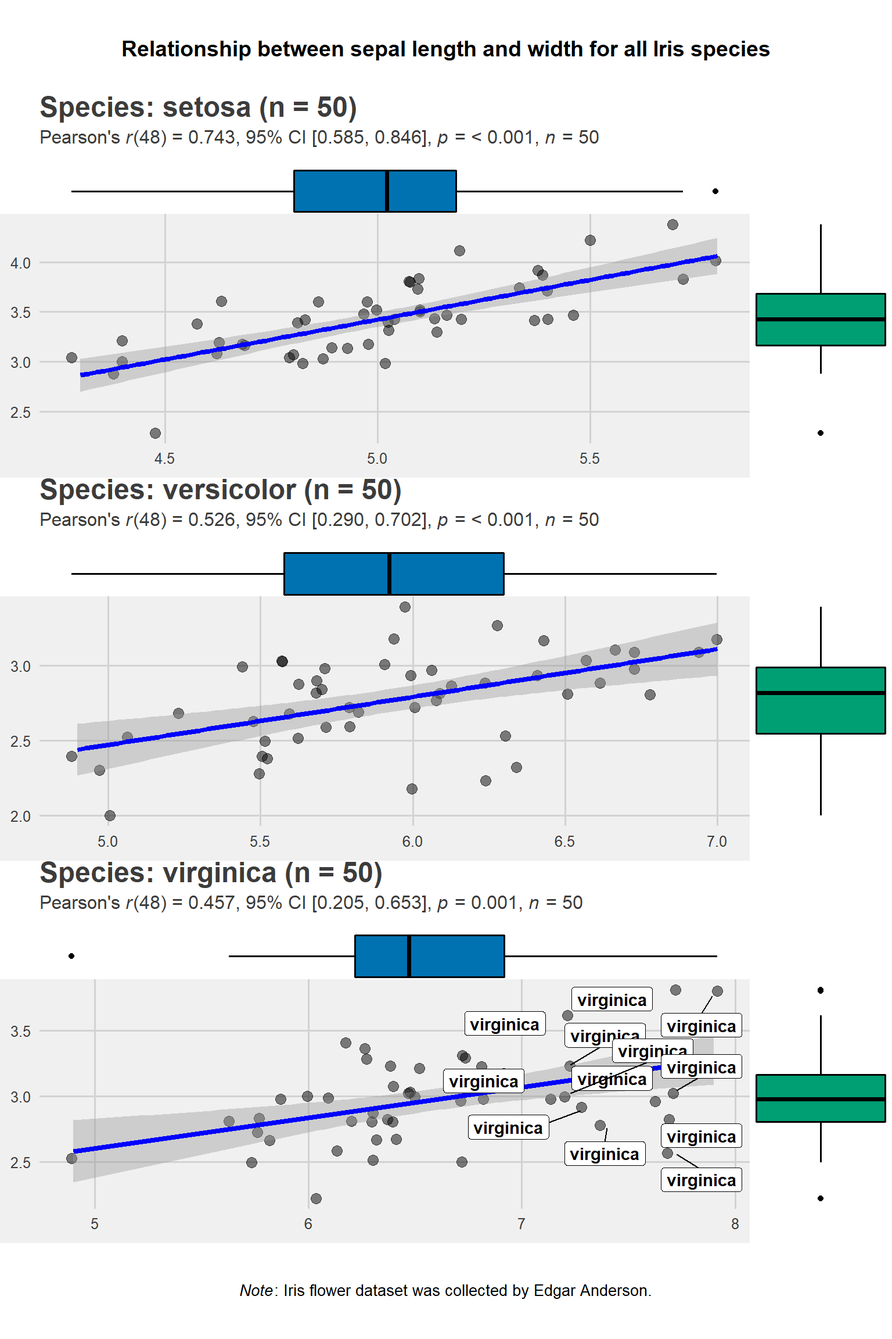
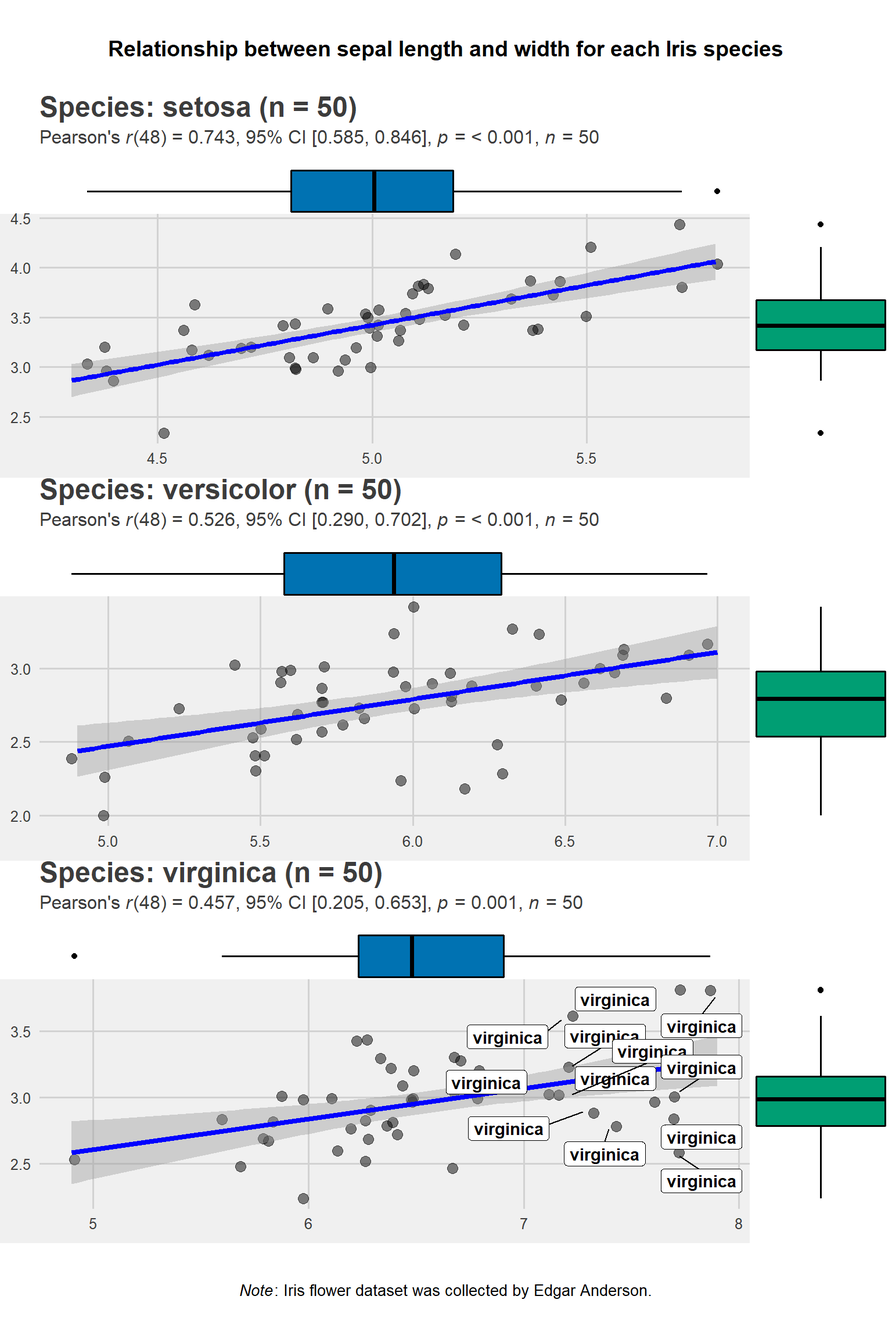
website rebuilt with modified vignette

diff --git a/docs/articles/combine_plots.html b/docs/articles/combine_plots.html
@@ -119,7 +119,7 @@
       <h1>combine_plots</h1>
                         <h4 class="author">Indrajeet Patil</h4>
             
-            <h4 class="date">2018-09-20</h4>
+            <h4 class="date">2018-09-23</h4>
       
       <small class="dont-index">Source: <a href="https://github.com/IndrajeetPatil/ggstatsplot/blob/master/vignettes/combine_plots.Rmd"><code>vignettes/combine_plots.Rmd</code></a></small>
       <div class="hidden name"><code>combine_plots.Rmd</code></div>
@@ -132,79 +132,82 @@
 <h1 class="hasAnchor">
 <a href="#combining-plots-with-combine_plots" class="anchor"></a>Combining plots with <code>combine_plots</code>
 </h1>
-<p><code>ggstatsplot</code> also contains a helper function <code>combine_plots</code> to combine multiple plots. This is a wrapper around <code><a href="http://www.rdocumentation.org/packages/cowplot/topics/plot_grid">cowplot::plot_grid()</a></code> and it helps you combine multiple plots and add combination of title, caption, and annotation texts with suitable default parameters. Let’s see some examples below.</p>
-<p><strong>Note before</strong>: The codes below illustrates the utility of <code>combine_plots</code> for combining multiple plots created with <code>ggstatsplot</code> functions. But, if you have just one grouping variable, it’s not even necessary to use <code>purrr</code> or <code>plyr</code> since the <code>grouped_</code> variants (<a href="https://indrajeetpatil.github.io/ggstatsplot/reference/index.html" class="uri">https://indrajeetpatil.github.io/ggstatsplot/reference/index.html</a>) of all functions will take care of this for you and rely on the <code>combine_plots</code> function behind the curtains.</p>
-<div id="combining-plots-examples-with-purrr" class="section level2">
+<p><code>ggstatsplot</code> contains a “helper” function named <code>combine_plots</code> to help you combine several plots into one plot or add a combination of title, caption, and annotation texts with suitable default parameters. It is a wrapper around <code><a href="http://www.rdocumentation.org/packages/cowplot/topics/plot_grid">cowplot::plot_grid()</a></code>. Some examples below.</p>
+<p><strong>Note Before</strong>: If you have just one grouping variable and you’d like a plot for each <code>factor</code> of this variable the <code>grouped_</code> variants (<a href="https://indrajeetpatil.github.io/ggstatsplot/reference/index.html" class="uri">https://indrajeetpatil.github.io/ggstatsplot/reference/index.html</a>) of all <code>ggstatsplot</code> functions will allow you do to this. They specifically use the <code>combine_plots</code> function under the covers.</p>
+<div id="combining-multiple-plots-example-1-using-purrr" class="section level2">
 <h2 class="hasAnchor">
-<a href="#combining-plots-examples-with-purrr" class="anchor"></a>Combining plots: Examples with <code>purrr</code>
+<a href="#combining-multiple-plots-example-1-using-purrr" class="anchor"></a>Combining multiple plots: Example #1 using <code>purrr</code>
 </h2>
-<p>The full power of <code>ggstatsplot</code> can be leveraged with a functional programming package like <a href="http://purrr.tidyverse.org/"><code>purrr</code></a> that replaces many <code>for</code> loops with code that is both more succinct and easier to read and, therefore, <code>purrr</code> should be preferrred.</p>
-<p>An example is provided below.</p>
+<p>The full power of <code>ggstatsplot</code> can be leveraged with a functional programming package like <a href="http://purrr.tidyverse.org/"><code>purrr</code></a> which can replace many <code>for</code> loops, is more succinct, and easier to read. Consider <code>purrr</code> as your first choice for combining multiple plots.</p>
+<p>An example using the <code>iris</code> dataset is provided below. Imagine that we want to separately plot the linear relationship between sepal length and sepal width for each of the three species but combine them into one consistent plot with common labeling and as one plot. Rather than call <code>ggscatterstats</code> three times and gluing the results or using <code>cowplot</code> directly, we’ll create a <code>tibble</code> called <code>plots</code> using <code><a href="http://www.rdocumentation.org/packages/purrr/topics/map">purrr::map</a></code> then feed that to <code>combine_plots</code> to get our combined plot.</p>
 <div class="sourceCode" id="cb1"><pre class="sourceCode r"><code class="sourceCode r"><a class="sourceLine" id="cb1-1" data-line-number="1"><span class="kw">library</span>(glue)</a>
 <a class="sourceLine" id="cb1-2" data-line-number="2"><span class="kw">library</span>(dplyr)</a>
 <a class="sourceLine" id="cb1-3" data-line-number="3"><span class="kw">library</span>(ggplot2)</a>
 <a class="sourceLine" id="cb1-4" data-line-number="4"></a>
-<a class="sourceLine" id="cb1-5" data-line-number="5"><span class="co">### creating a list column with `ggstatsplot` plots</span></a>
-<a class="sourceLine" id="cb1-6" data-line-number="6">plots &lt;-<span class="st"> </span>datasets<span class="op">::</span>iris <span class="op">%&gt;%</span></a>
-<a class="sourceLine" id="cb1-7" data-line-number="7"><span class="st">  </span>dplyr<span class="op">::</span><span class="kw"><a href="http://dplyr.tidyverse.org/reference/mutate.html">mutate</a></span>(<span class="dt">.data =</span> ., <span class="dt">Species2 =</span> Species) <span class="op">%&gt;%</span><span class="st"> </span><span class="co"># just creates a copy of this variable</span></a>
-<a class="sourceLine" id="cb1-8" data-line-number="8"><span class="st">  </span>dplyr<span class="op">::</span><span class="kw"><a href="http://dplyr.tidyverse.org/reference/group_by.html">group_by</a></span>(<span class="dt">.data =</span> ., Species) <span class="op">%&gt;%</span><span class="st">                </span></a>
-<a class="sourceLine" id="cb1-9" data-line-number="9"><span class="st">  </span>tidyr<span class="op">::</span><span class="kw"><a href="http://www.rdocumentation.org/packages/tidyr/topics/nest">nest</a></span>(<span class="dt">data =</span> .) <span class="op">%&gt;%</span><span class="st">                        </span><span class="co"># creates a nested dataframe with list column called `data`</span></a>
-<a class="sourceLine" id="cb1-10" data-line-number="10"><span class="st">  </span>dplyr<span class="op">::</span><span class="kw"><a href="http://dplyr.tidyverse.org/reference/mutate.html">mutate</a></span>(                                   <span class="co"># creating a new list column of ggstatsplot outputs</span></a>
-<a class="sourceLine" id="cb1-11" data-line-number="11">    <span class="dt">.data =</span> .,</a>
-<a class="sourceLine" id="cb1-12" data-line-number="12">    <span class="dt">plot =</span> data <span class="op">%&gt;%</span></a>
-<a class="sourceLine" id="cb1-13" data-line-number="13"><span class="st">      </span>purrr<span class="op">::</span><span class="kw"><a href="http://www.rdocumentation.org/packages/purrr/topics/map">map</a></span>(</a>
-<a class="sourceLine" id="cb1-14" data-line-number="14">        <span class="dt">.x =</span> .,</a>
-<a class="sourceLine" id="cb1-15" data-line-number="15">        <span class="dt">.f =</span> <span class="op">~</span><span class="st"> </span>ggstatsplot<span class="op">::</span><span class="kw"><a href="https://indrajeetpatil.github.io/ggstatsplot//reference/ggscatterstats.html">ggscatterstats</a></span>(</a>
-<a class="sourceLine" id="cb1-16" data-line-number="16">          <span class="dt">data =</span> .,</a>
-<a class="sourceLine" id="cb1-17" data-line-number="17">          <span class="dt">x =</span> Sepal.Length,</a>
-<a class="sourceLine" id="cb1-18" data-line-number="18">          <span class="dt">y =</span> Sepal.Width,</a>
-<a class="sourceLine" id="cb1-19" data-line-number="19">          <span class="dt">label.var =</span> <span class="st">"Species2"</span>,</a>
-<a class="sourceLine" id="cb1-20" data-line-number="20">          <span class="dt">label.expression =</span> <span class="st">"Sepal.Length &gt; 7"</span>,</a>
-<a class="sourceLine" id="cb1-21" data-line-number="21">          <span class="dt">xfill =</span> <span class="st">"#0072B2"</span>,</a>
-<a class="sourceLine" id="cb1-22" data-line-number="22">          <span class="dt">yfill =</span> <span class="st">"#009E73"</span>,</a>
-<a class="sourceLine" id="cb1-23" data-line-number="23">          <span class="dt">ggtheme =</span> ggthemes<span class="op">::</span><span class="kw"><a href="http://www.rdocumentation.org/packages/ggthemes/topics/theme_fivethirtyeight">theme_fivethirtyeight</a></span>(),</a>
-<a class="sourceLine" id="cb1-24" data-line-number="24">          <span class="dt">ggstatsplot.layer =</span> <span class="ot">FALSE</span>,</a>
-<a class="sourceLine" id="cb1-25" data-line-number="25">          <span class="dt">messages =</span> <span class="ot">FALSE</span>,                        <span class="co"># turns off all the warnings, notes, and reference messages   </span></a>
-<a class="sourceLine" id="cb1-26" data-line-number="26">          <span class="dt">marginal.type =</span> <span class="st">"boxplot"</span>,</a>
-<a class="sourceLine" id="cb1-27" data-line-number="27">          <span class="dt">title =</span></a>
-<a class="sourceLine" id="cb1-28" data-line-number="28">            glue<span class="op">::</span><span class="kw"><a href="http://www.rdocumentation.org/packages/glue/topics/glue">glue</a></span>(<span class="st">"Species: {.$Species2} (n = {length(.$Sepal.Length)})"</span>)</a>
-<a class="sourceLine" id="cb1-29" data-line-number="29">        )</a>
-<a class="sourceLine" id="cb1-30" data-line-number="30">      )</a>
-<a class="sourceLine" id="cb1-31" data-line-number="31">  )</a>
-<a class="sourceLine" id="cb1-32" data-line-number="32"></a>
-<a class="sourceLine" id="cb1-33" data-line-number="33"><span class="co">### display the new object (notice that the class of the `plot` list column is S3: gg)</span></a>
-<a class="sourceLine" id="cb1-34" data-line-number="34">plots</a>
-<a class="sourceLine" id="cb1-35" data-line-number="35"><span class="co">#&gt; # A tibble: 3 x 3</span></a>
-<a class="sourceLine" id="cb1-36" data-line-number="36"><span class="co">#&gt;   Species    data              plot             </span></a>
-<a class="sourceLine" id="cb1-37" data-line-number="37"><span class="co">#&gt;   &lt;fct&gt;      &lt;list&gt;            &lt;list&gt;           </span></a>
-<a class="sourceLine" id="cb1-38" data-line-number="38"><span class="co">#&gt; 1 setosa     &lt;tibble [50 x 5]&gt; &lt;S3: ggExtraPlot&gt;</span></a>
-<a class="sourceLine" id="cb1-39" data-line-number="39"><span class="co">#&gt; 2 versicolor &lt;tibble [50 x 5]&gt; &lt;S3: ggExtraPlot&gt;</span></a>
-<a class="sourceLine" id="cb1-40" data-line-number="40"><span class="co">#&gt; 3 virginica  &lt;tibble [50 x 5]&gt; &lt;S3: ggExtraPlot&gt;</span></a>
-<a class="sourceLine" id="cb1-41" data-line-number="41"></a>
-<a class="sourceLine" id="cb1-42" data-line-number="42"><span class="co">### creating a grid with cowplot</span></a>
-<a class="sourceLine" id="cb1-43" data-line-number="43">ggstatsplot<span class="op">::</span><span class="kw"><a href="https://indrajeetpatil.github.io/ggstatsplot//reference/combine_plots.html">combine_plots</a></span>(</a>
-<a class="sourceLine" id="cb1-44" data-line-number="44">  <span class="dt">plotlist =</span> plots<span class="op">$</span>plot,                           <span class="co"># list column containing all ggstatsplot objects</span></a>
-<a class="sourceLine" id="cb1-45" data-line-number="45">  <span class="dt">nrow =</span> <span class="dv">3</span>,</a>
-<a class="sourceLine" id="cb1-46" data-line-number="46">  <span class="dt">ncol =</span> <span class="dv">1</span>,</a>
-<a class="sourceLine" id="cb1-47" data-line-number="47">  <span class="dt">title.text =</span> <span class="st">"Relationship between sepal length and width for all Iris species"</span>,</a>
-<a class="sourceLine" id="cb1-48" data-line-number="48">  <span class="dt">title.size =</span> <span class="dv">14</span>,</a>
-<a class="sourceLine" id="cb1-49" data-line-number="49">  <span class="dt">caption.text =</span> <span class="kw">expression</span>(</a>
-<a class="sourceLine" id="cb1-50" data-line-number="50">    <span class="kw">paste</span>(</a>
-<a class="sourceLine" id="cb1-51" data-line-number="51">      <span class="kw">italic</span>(<span class="st">"Note"</span>),</a>
-<a class="sourceLine" id="cb1-52" data-line-number="52">      <span class="st">": Iris flower dataset was collected by Edgar Anderson."</span>,</a>
-<a class="sourceLine" id="cb1-53" data-line-number="53">      <span class="dt">sep =</span> <span class="st">""</span></a>
-<a class="sourceLine" id="cb1-54" data-line-number="54">    ),</a>
-<a class="sourceLine" id="cb1-55" data-line-number="55">    <span class="dt">caption.size =</span> <span class="dv">12</span></a>
-<a class="sourceLine" id="cb1-56" data-line-number="56">  )</a>
-<a class="sourceLine" id="cb1-57" data-line-number="57">)</a></code></pre></div>
+<a class="sourceLine" id="cb1-5" data-line-number="5"><span class="co"># for reproducibility</span></a>
+<a class="sourceLine" id="cb1-6" data-line-number="6"><span class="kw">set.seed</span>(<span class="dv">123</span>)</a>
+<a class="sourceLine" id="cb1-7" data-line-number="7"></a>
+<a class="sourceLine" id="cb1-8" data-line-number="8"><span class="co">### creating a list column with `ggstatsplot` plots</span></a>
+<a class="sourceLine" id="cb1-9" data-line-number="9">plots &lt;-<span class="st"> </span>datasets<span class="op">::</span>iris <span class="op">%&gt;%</span></a>
+<a class="sourceLine" id="cb1-10" data-line-number="10"><span class="st">  </span>dplyr<span class="op">::</span><span class="kw"><a href="http://dplyr.tidyverse.org/reference/mutate.html">mutate</a></span>(<span class="dt">.data =</span> ., <span class="dt">Species2 =</span> Species) <span class="op">%&gt;%</span><span class="st"> </span><span class="co"># just creates a copy of this variable</span></a>
+<a class="sourceLine" id="cb1-11" data-line-number="11"><span class="st">  </span>dplyr<span class="op">::</span><span class="kw"><a href="http://dplyr.tidyverse.org/reference/group_by.html">group_by</a></span>(<span class="dt">.data =</span> ., Species) <span class="op">%&gt;%</span><span class="st">                </span></a>
+<a class="sourceLine" id="cb1-12" data-line-number="12"><span class="st">  </span>tidyr<span class="op">::</span><span class="kw"><a href="http://www.rdocumentation.org/packages/tidyr/topics/nest">nest</a></span>(<span class="dt">data =</span> .) <span class="op">%&gt;%</span><span class="st">                        </span><span class="co"># creates a nested dataframe with list column called `data`</span></a>
+<a class="sourceLine" id="cb1-13" data-line-number="13"><span class="st">  </span>dplyr<span class="op">::</span><span class="kw"><a href="http://dplyr.tidyverse.org/reference/mutate.html">mutate</a></span>(                                   <span class="co"># creating a new list column of ggstatsplot outputs</span></a>
+<a class="sourceLine" id="cb1-14" data-line-number="14">    <span class="dt">.data =</span> .,</a>
+<a class="sourceLine" id="cb1-15" data-line-number="15">    <span class="dt">plot =</span> data <span class="op">%&gt;%</span></a>
+<a class="sourceLine" id="cb1-16" data-line-number="16"><span class="st">      </span>purrr<span class="op">::</span><span class="kw"><a href="http://www.rdocumentation.org/packages/purrr/topics/map">map</a></span>(</a>
+<a class="sourceLine" id="cb1-17" data-line-number="17">        <span class="dt">.x =</span> .,</a>
+<a class="sourceLine" id="cb1-18" data-line-number="18">        <span class="dt">.f =</span> <span class="op">~</span><span class="st"> </span>ggstatsplot<span class="op">::</span><span class="kw"><a href="https://indrajeetpatil.github.io/ggstatsplot//reference/ggscatterstats.html">ggscatterstats</a></span>(</a>
+<a class="sourceLine" id="cb1-19" data-line-number="19">          <span class="dt">data =</span> .,</a>
+<a class="sourceLine" id="cb1-20" data-line-number="20">          <span class="dt">x =</span> Sepal.Length,</a>
+<a class="sourceLine" id="cb1-21" data-line-number="21">          <span class="dt">y =</span> Sepal.Width,</a>
+<a class="sourceLine" id="cb1-22" data-line-number="22">          <span class="dt">label.var =</span> <span class="st">"Species2"</span>,</a>
+<a class="sourceLine" id="cb1-23" data-line-number="23">          <span class="dt">label.expression =</span> <span class="st">"Sepal.Length &gt; 7"</span>,</a>
+<a class="sourceLine" id="cb1-24" data-line-number="24">          <span class="dt">xfill =</span> <span class="st">"#0072B2"</span>,</a>
+<a class="sourceLine" id="cb1-25" data-line-number="25">          <span class="dt">yfill =</span> <span class="st">"#009E73"</span>,</a>
+<a class="sourceLine" id="cb1-26" data-line-number="26">          <span class="dt">ggtheme =</span> ggthemes<span class="op">::</span><span class="kw"><a href="http://www.rdocumentation.org/packages/ggthemes/topics/theme_fivethirtyeight">theme_fivethirtyeight</a></span>(),</a>
+<a class="sourceLine" id="cb1-27" data-line-number="27">          <span class="dt">ggstatsplot.layer =</span> <span class="ot">FALSE</span>,</a>
+<a class="sourceLine" id="cb1-28" data-line-number="28">          <span class="dt">messages =</span> <span class="ot">FALSE</span>,                        <span class="co"># turns off all the warnings, notes, and reference messages   </span></a>
+<a class="sourceLine" id="cb1-29" data-line-number="29">          <span class="dt">marginal.type =</span> <span class="st">"boxplot"</span>,</a>
+<a class="sourceLine" id="cb1-30" data-line-number="30">          <span class="dt">title =</span></a>
+<a class="sourceLine" id="cb1-31" data-line-number="31">            glue<span class="op">::</span><span class="kw"><a href="http://www.rdocumentation.org/packages/glue/topics/glue">glue</a></span>(<span class="st">"Species: {.$Species2} (n = {length(.$Sepal.Length)})"</span>)</a>
+<a class="sourceLine" id="cb1-32" data-line-number="32">        )</a>
+<a class="sourceLine" id="cb1-33" data-line-number="33">      )</a>
+<a class="sourceLine" id="cb1-34" data-line-number="34">  )</a>
+<a class="sourceLine" id="cb1-35" data-line-number="35"></a>
+<a class="sourceLine" id="cb1-36" data-line-number="36"><span class="co">### display the new object (notice that the class of the `plot` list column is S3: gg)</span></a>
+<a class="sourceLine" id="cb1-37" data-line-number="37">plots</a>
+<a class="sourceLine" id="cb1-38" data-line-number="38"><span class="co">#&gt; # A tibble: 3 x 3</span></a>
+<a class="sourceLine" id="cb1-39" data-line-number="39"><span class="co">#&gt;   Species    data              plot             </span></a>
+<a class="sourceLine" id="cb1-40" data-line-number="40"><span class="co">#&gt;   &lt;fct&gt;      &lt;list&gt;            &lt;list&gt;           </span></a>
+<a class="sourceLine" id="cb1-41" data-line-number="41"><span class="co">#&gt; 1 setosa     &lt;tibble [50 x 5]&gt; &lt;S3: ggExtraPlot&gt;</span></a>
+<a class="sourceLine" id="cb1-42" data-line-number="42"><span class="co">#&gt; 2 versicolor &lt;tibble [50 x 5]&gt; &lt;S3: ggExtraPlot&gt;</span></a>
+<a class="sourceLine" id="cb1-43" data-line-number="43"><span class="co">#&gt; 3 virginica  &lt;tibble [50 x 5]&gt; &lt;S3: ggExtraPlot&gt;</span></a>
+<a class="sourceLine" id="cb1-44" data-line-number="44"></a>
+<a class="sourceLine" id="cb1-45" data-line-number="45"><span class="co">### creating a grid with cowplot</span></a>
+<a class="sourceLine" id="cb1-46" data-line-number="46">ggstatsplot<span class="op">::</span><span class="kw"><a href="https://indrajeetpatil.github.io/ggstatsplot//reference/combine_plots.html">combine_plots</a></span>(</a>
+<a class="sourceLine" id="cb1-47" data-line-number="47">  <span class="dt">plotlist =</span> plots<span class="op">$</span>plot,                           <span class="co"># list column containing all ggstatsplot objects</span></a>
+<a class="sourceLine" id="cb1-48" data-line-number="48">  <span class="dt">nrow =</span> <span class="dv">3</span>,</a>
+<a class="sourceLine" id="cb1-49" data-line-number="49">  <span class="dt">ncol =</span> <span class="dv">1</span>,</a>
+<a class="sourceLine" id="cb1-50" data-line-number="50">  <span class="dt">title.text =</span> <span class="st">"Relationship between sepal length and width for each Iris species"</span>,</a>
+<a class="sourceLine" id="cb1-51" data-line-number="51">  <span class="dt">title.size =</span> <span class="dv">14</span>,</a>
+<a class="sourceLine" id="cb1-52" data-line-number="52">  <span class="dt">caption.text =</span> <span class="kw">expression</span>(</a>
+<a class="sourceLine" id="cb1-53" data-line-number="53">    <span class="kw">paste</span>(</a>
+<a class="sourceLine" id="cb1-54" data-line-number="54">      <span class="kw">italic</span>(<span class="st">"Note"</span>),</a>
+<a class="sourceLine" id="cb1-55" data-line-number="55">      <span class="st">": Iris flower dataset was collected by Edgar Anderson."</span>,</a>
+<a class="sourceLine" id="cb1-56" data-line-number="56">      <span class="dt">sep =</span> <span class="st">""</span></a>
+<a class="sourceLine" id="cb1-57" data-line-number="57">    ),</a>
+<a class="sourceLine" id="cb1-58" data-line-number="58">    <span class="dt">caption.size =</span> <span class="dv">12</span></a>
+<a class="sourceLine" id="cb1-59" data-line-number="59">  )</a>
+<a class="sourceLine" id="cb1-60" data-line-number="60">)</a></code></pre></div>
 <p><img src="combine_plots_files/figure-html/ggscatterstats_purrr-1.png" width="768"></p>
 </div>
-<div id="combining-plots-example-with-plyr" class="section level2">
+<div id="combining-multiple-plots-example-2-with-plyr" class="section level2">
 <h2 class="hasAnchor">
-<a href="#combining-plots-example-with-plyr" class="anchor"></a>Combining plots: Example with <code>plyr</code>
+<a href="#combining-multiple-plots-example-2-with-plyr" class="anchor"></a>Combining multiple plots: Example #2 with <code>plyr</code>
 </h2>
-<p>Another popular package for handling big datasets is <code>plyr</code>, where we can repeatedly apply a common function on smaller pieces and then combine the results.</p>
-<p>Let’s see another example on how to use <code>plyr</code> to conveniently to repeat the same operation and then use <code>combine_plots</code>. Here we will investigate how Gross Domestic Product (per capita) of a country is related to the life expectancy of her citizens in 2007. We will also see which countries still have very low life expectancy across different continents.</p>
+<p>Another popular package for handling big datasets is <code>plyr</code>, which allows us to repeatedly apply a common function on smaller pieces and then combine the results into a larger whole.</p>
+<p>In this example we’ll start with the <code>gapminder</code> dataset. We’re interested in the linear relationship between Gross Domestic Product (per capita) and life expectancy in the year 2007, for all the continents except Oceania. We’ll use <code>dplyr</code> to filter to the right rows then use <code>plyr</code> to repeat the <code>ggscatterstats</code> function across each of the 4 continents remaining. The result is of that is a list of plots called <code>plots</code>. We then feed <code>plots</code> to the <code>combine_plots</code> function to merge them into one plot. We will call attention to the countries which have very low life expectancy (&lt; 45 years) by labeling those countries when they occur.</p>
 <div class="sourceCode" id="cb2"><pre class="sourceCode r"><code class="sourceCode r"><a class="sourceLine" id="cb2-1" data-line-number="1"><span class="kw">library</span>(plyr)</a>
 <a class="sourceLine" id="cb2-2" data-line-number="2"><span class="kw">library</span>(gapminder)</a>
 <a class="sourceLine" id="cb2-3" data-line-number="3"></a>
@@ -248,10 +251,11 @@
 <a class="sourceLine" id="cb2-41" data-line-number="41">                           <span class="dt">ncol =</span> <span class="dv">2</span>)</a></code></pre></div>
 <p><img src="combine_plots_files/figure-html/ggscatterstats_plyr-1.png" width="1152"></p>
 </div>
-<div id="combining-plot-with-additional-text" class="section level2">
+<div id="adding-additional-textual-information-example-3" class="section level2">
 <h2 class="hasAnchor">
-<a href="#combining-plot-with-additional-text" class="anchor"></a>Combining plot with additional text</h2>
-<p>This function can also be useful adding some additional text information that can’t be contained in either title, subtitle, or caption. Here is an example: We want to run a polynomial regression and want to annotate the formula.</p>
+<a href="#adding-additional-textual-information-example-3" class="anchor"></a>Adding additional textual information: Example #3</h2>
+<p>The <code>combine_plots</code> function can also be useful for adding additional textual information that can not be added by making a single call to a <code>ggstatsplot</code> function via the title, subtitle, or caption options. For this example let’s assume we want to assess the relationship between a movie’s rating and its budget from the <strong>Internet Movie Database</strong> using polynomial regression.</p>
+<p><code>ggcoefstats</code> will do most of the work, including the title, subtitle, and caption. But we want to add at the bottom an annotation to show the formula we are using for our regression. <code>combine_plots</code> allows us to add <code>sub.text =</code> to accomplish that task as shown in the resulting plot.</p>
 <div class="sourceCode" id="cb3"><pre class="sourceCode r"><code class="sourceCode r"><a class="sourceLine" id="cb3-1" data-line-number="1"><span class="kw">library</span>(ggstatsplot)</a>
 <a class="sourceLine" id="cb3-2" data-line-number="2"></a>
 <a class="sourceLine" id="cb3-3" data-line-number="3">ggstatsplot<span class="op">::</span><span class="kw"><a href="https://indrajeetpatil.github.io/ggstatsplot//reference/combine_plots.html">combine_plots</a></span>(</a>
@@ -303,8 +307,16 @@
 <h1 class="hasAnchor">
 <a href="#session-information" class="anchor"></a>Session Information</h1>
 <p>Summarizing session information for reproducibility.</p>
-<div class="sourceCode" id="cb4"><pre class="sourceCode r"><code class="sourceCode r"><a class="sourceLine" id="cb4-1" data-line-number="1"><span class="kw">options</span>(<span class="dt">width =</span> <span class="dv">200</span>)</a>
-<a class="sourceLine" id="cb4-2" data-line-number="2">devtools<span class="op">::</span><span class="kw"><a href="http://www.rdocumentation.org/packages/devtools/topics/session_info">session_info</a></span>()</a></code></pre></div>
+<pre><code>#&gt;  setting  value                       
+#&gt;  version  R version 3.5.1 (2018-07-02)
+#&gt;  os       Windows 10 x64              
+#&gt;  system   x86_64, mingw32             
+#&gt;  ui       RTerm                       
+#&gt;  language (EN)                        
+#&gt;  collate  English_United States.1252  
+#&gt;  ctype    English_United States.1252  
+#&gt;  tz       America/New_York            
+#&gt;  date     2018-09-23</code></pre>
 </div>
   </div>
 
@@ -315,9 +327,9 @@
       <ul class="nav nav-pills nav-stacked">
 <li>
 <a href="#combining-plots-with-combine_plots">Combining plots with <code>combine_plots</code></a><ul class="nav nav-pills nav-stacked">
-<li><a href="#combining-plots-examples-with-purrr">Combining plots: Examples with <code>purrr</code></a></li>
-      <li><a href="#combining-plots-example-with-plyr">Combining plots: Example with <code>plyr</code></a></li>
-      <li><a href="#combining-plot-with-additional-text">Combining plot with additional text</a></li>
+<li><a href="#combining-multiple-plots-example-1-using-purrr">Combining multiple plots: Example #1 using <code>purrr</code></a></li>
+      <li><a href="#combining-multiple-plots-example-2-with-plyr">Combining multiple plots: Example #2 with <code>plyr</code></a></li>
+      <li><a href="#adding-additional-textual-information-example-3">Adding additional textual information: Example #3</a></li>
       </ul>
 </li>
       <li><a href="#suggestions">Suggestions</a></li>

diff --git a/docs/index.html b/docs/index.html
@@ -126,7 +126,7 @@
 <div id="ggstatsplot-ggplot2-based-plots-with-statistical-details" class="section level1">
 <div class="page-header"><h1 class="hasAnchor">
 <a href="#ggstatsplot-ggplot2-based-plots-with-statistical-details" class="anchor"></a>ggstatsplot: <code>ggplot2</code> Based Plots with Statistical Details</h1></div>
-<p><a href="https://CRAN.R-project.org/package=ggstatsplot"><img src="http://www.r-pkg.org/badges/version-ago/ggstatsplot" alt="CRAN_Release_Badge"></a> <a href="https://cran.r-project.org/web/checks/check_results_ggstatsplot.html"><img src="https://cranchecks.info/badges/summary/ggstatsplot" alt="CRAN Checks"></a> <a href="commits/master"><img src="https://img.shields.io/badge/Package%20version-0.0.5.9000-orange.svg?style=flat-square" alt="packageversion"></a> <a href="https://codecov.io/github/IndrajeetPatil/ggstatsplot?branch=master"><img src="https://img.shields.io/codecov/c/github/IndrajeetPatil/ggstatsplot/master.svg" alt="Coverage Status"></a> <a href="https://CRAN.R-project.org/package=ggstatsplot"><img src="https://cranlogs.r-pkg.org/badges/last-day/ggstatsplot?color=blue" alt="Daily downloads badge"></a> <a href="https://CRAN.R-project.org/package=ggstatsplot"><img src="https://cranlogs.r-pkg.org/badges/last-week/ggstatsplot?color=blue" alt="Weekly downloads badge"></a> <a href="https://CRAN.R-project.org/package=ggstatsplot"><img src="https://cranlogs.r-pkg.org/badges/last-month/ggstatsplot?color=blue" alt="Monthly downloads badge"></a> <a href="https://CRAN.R-project.org/package=ggstatsplot"><img src="https://cranlogs.r-pkg.org/badges/grand-total/ggstatsplot?color=blue" alt="Total downloads badge"></a> <a href="https://travis-ci.org/IndrajeetPatil/ggstatsplot"><img src="https://travis-ci.org/IndrajeetPatil/ggstatsplot.svg?branch=master" alt="Travis Build Status"></a> <a href="https://ci.appveyor.com/project/IndrajeetPatil/ggstatsplot"><img src="https://ci.appveyor.com/api/projects/status/github/IndrajeetPatil/ggstatsplot?branch=master&amp;svg=true" alt="AppVeyor Build Status"></a> <a href="https://www.gnu.org/licenses/gpl-3.0.en.html"><img src="https://img.shields.io/badge/licence-GPL--3-blue.svg" alt="Licence"></a> <a href="/commits/master"><img src="https://img.shields.io/badge/last%20change-2018--09--20-yellowgreen.svg" alt="Last-changedate"></a> <a href="https://www.tidyverse.org/lifecycle/#stable"><img src="https://img.shields.io/badge/lifecycle-stable-green.svg" alt="lifecycle"></a> <a href="https://cran.r-project.org/"><img src="https://img.shields.io/badge/R%3E%3D-3.3.0-6666ff.svg" alt="minimal R version"></a> <a href="http://www.repostatus.org/#active"><img src="http://www.repostatus.org/badges/latest/active.svg" alt="Project Status: Active - The project has reached a stable, usable state and is being actively developed."></a> <a href="https://github.com/IndrajeetPatil/ggstatsplot/pulls"><img src="http://githubbadges.herokuapp.com/IndrajeetPatil/ggstatsplot/pulls.svg?style=flat" alt="Pending Pull-Requests"></a> <a href="https://github.com/IndrajeetPatil/ggstatsplot/issues"><img src="http://githubbadges.herokuapp.com/IndrajeetPatil/ggstatsplot/issues.svg" alt="Github Issues"></a></p>
+<p><a href="https://CRAN.R-project.org/package=ggstatsplot"><img src="http://www.r-pkg.org/badges/version-ago/ggstatsplot" alt="CRAN_Release_Badge"></a> <a href="https://cran.r-project.org/web/checks/check_results_ggstatsplot.html"><img src="https://cranchecks.info/badges/summary/ggstatsplot" alt="CRAN Checks"></a> <a href="commits/master"><img src="https://img.shields.io/badge/Package%20version-0.0.5.9000-orange.svg?style=flat-square" alt="packageversion"></a> <a href="https://codecov.io/github/IndrajeetPatil/ggstatsplot?branch=master"><img src="https://img.shields.io/codecov/c/github/IndrajeetPatil/ggstatsplot/master.svg" alt="Coverage Status"></a> <a href="https://CRAN.R-project.org/package=ggstatsplot"><img src="https://cranlogs.r-pkg.org/badges/last-day/ggstatsplot?color=blue" alt="Daily downloads badge"></a> <a href="https://CRAN.R-project.org/package=ggstatsplot"><img src="https://cranlogs.r-pkg.org/badges/last-week/ggstatsplot?color=blue" alt="Weekly downloads badge"></a> <a href="https://CRAN.R-project.org/package=ggstatsplot"><img src="https://cranlogs.r-pkg.org/badges/last-month/ggstatsplot?color=blue" alt="Monthly downloads badge"></a> <a href="https://CRAN.R-project.org/package=ggstatsplot"><img src="https://cranlogs.r-pkg.org/badges/grand-total/ggstatsplot?color=blue" alt="Total downloads badge"></a> <a href="https://travis-ci.org/IndrajeetPatil/ggstatsplot"><img src="https://travis-ci.org/IndrajeetPatil/ggstatsplot.svg?branch=master" alt="Travis Build Status"></a> <a href="https://ci.appveyor.com/project/IndrajeetPatil/ggstatsplot"><img src="https://ci.appveyor.com/api/projects/status/github/IndrajeetPatil/ggstatsplot?branch=master&amp;svg=true" alt="AppVeyor Build Status"></a> <a href="https://www.gnu.org/licenses/gpl-3.0.en.html"><img src="https://img.shields.io/badge/licence-GPL--3-blue.svg" alt="Licence"></a> <a href="/commits/master"><img src="https://img.shields.io/badge/last%20change-2018--09--23-yellowgreen.svg" alt="Last-changedate"></a> <a href="https://www.tidyverse.org/lifecycle/#stable"><img src="https://img.shields.io/badge/lifecycle-stable-green.svg" alt="lifecycle"></a> <a href="https://cran.r-project.org/"><img src="https://img.shields.io/badge/R%3E%3D-3.3.0-6666ff.svg" alt="minimal R version"></a> <a href="http://www.repostatus.org/#active"><img src="http://www.repostatus.org/badges/latest/active.svg" alt="Project Status: Active - The project has reached a stable, usable state and is being actively developed."></a> <a href="https://github.com/IndrajeetPatil/ggstatsplot/pulls"><img src="http://githubbadges.herokuapp.com/IndrajeetPatil/ggstatsplot/pulls.svg?style=flat" alt="Pending Pull-Requests"></a> <a href="https://github.com/IndrajeetPatil/ggstatsplot/issues"><img src="http://githubbadges.herokuapp.com/IndrajeetPatil/ggstatsplot/issues.svg" alt="Github Issues"></a></p>
 <!--
 [![Dependency Status](http://img.shields.io/gemnasium/IndrajeetPatil/ggstatsplot.svg)](https://gemnasium.com/IndrajeetPatil/ggstatsplot) 
 -->
@@ -277,7 +277,7 @@
 <a class="sourceLine" id="cb8-40" data-line-number="40"><span class="co">#&gt;     ggtheme</span></a>
 <a class="sourceLine" id="cb8-41" data-line-number="41"><span class="co">#&gt;   }</span></a>
 <a class="sourceLine" id="cb8-42" data-line-number="42"><span class="co">#&gt; }</span></a>
-<a class="sourceLine" id="cb8-43" data-line-number="43"><span class="co">#&gt; &lt;bytecode: 0x000000002a0a3f30&gt;</span></a>
+<a class="sourceLine" id="cb8-43" data-line-number="43"><span class="co">#&gt; &lt;bytecode: 0x000000002a8b2780&gt;</span></a>
 <a class="sourceLine" id="cb8-44" data-line-number="44"><span class="co">#&gt; &lt;environment: namespace:ggstatsplot&gt;</span></a></code></pre></div>
 <p>If you are not familiar either with what the namespace <code>::</code> does or how to use pipe operator <code>%&gt;%</code>, something this package and its documentation relies a lot on, you can check out these links-</p>
 <ul>

diff --git a/docs/articles/purrr_examples.html b/docs/articles/purrr_examples.html
@@ -119,7 +119,7 @@
       <h1>using <code>ggstatsplot</code> with <code>purrr</code> package</h1>
                         <h4 class="author">Indrajeet Patil</h4>
             
-            <h4 class="date">2018-09-20</h4>
+            <h4 class="date">2018-09-23</h4>
       
       <small class="dont-index">Source: <a href="https://github.com/IndrajeetPatil/ggstatsplot/blob/master/vignettes/purrr_examples.Rmd"><code>vignettes/purrr_examples.Rmd</code></a></small>
       <div class="hidden name"><code>purrr_examples.Rmd</code></div>

diff --git a/docs/articles/theme_ggstatsplot.html b/docs/articles/theme_ggstatsplot.html
@@ -119,7 +119,7 @@
       <h1>ggstatsplot theme</h1>
                         <h4 class="author">Indrajeet Patil</h4>
             
-            <h4 class="date">2018-09-20</h4>
+            <h4 class="date">2018-09-23</h4>
       
       <small class="dont-index">Source: <a href="https://github.com/IndrajeetPatil/ggstatsplot/blob/master/vignettes/theme_ggstatsplot.Rmd"><code>vignettes/theme_ggstatsplot.Rmd</code></a></small>
       <div class="hidden name"><code>theme_ggstatsplot.Rmd</code></div>

diff --git a/docs/articles/ggbetweenstats.html b/docs/articles/ggbetweenstats.html
@@ -119,7 +119,7 @@
       <h1>ggbetweenstats</h1>
                         <h4 class="author">Indrajeet Patil</h4>
             
-            <h4 class="date">2018-09-20</h4>
+            <h4 class="date">2018-09-23</h4>
       
       <small class="dont-index">Source: <a href="https://github.com/IndrajeetPatil/ggstatsplot/blob/master/vignettes/ggbetweenstats.Rmd"><code>vignettes/ggbetweenstats.Rmd</code></a></small>
       <div class="hidden name"><code>ggbetweenstats.Rmd</code></div>

diff --git a/docs/articles/ggscatterstats.html b/docs/articles/ggscatterstats.html
@@ -119,7 +119,7 @@
       <h1>ggscatterstats</h1>
                         <h4 class="author">Indrajeet Patil</h4>
             
-            <h4 class="date">2018-09-20</h4>
+            <h4 class="date">2018-09-23</h4>
       
       <small class="dont-index">Source: <a href="https://github.com/IndrajeetPatil/ggstatsplot/blob/master/vignettes/ggscatterstats.Rmd"><code>vignettes/ggscatterstats.Rmd</code></a></small>
       <div class="hidden name"><code>ggscatterstats.Rmd</code></div>

diff --git a/docs/articles/gghistostats.html b/docs/articles/gghistostats.html
@@ -119,7 +119,7 @@
       <h1>gghistostats</h1>
                         <h4 class="author">Indrajeet Patil</h4>
             
-            <h4 class="date">2018-09-20</h4>
+            <h4 class="date">2018-09-23</h4>
       
       <small class="dont-index">Source: <a href="https://github.com/IndrajeetPatil/ggstatsplot/blob/master/vignettes/gghistostats.Rmd"><code>vignettes/gghistostats.Rmd</code></a></small>
       <div class="hidden name"><code>gghistostats.Rmd</code></div>

diff --git a/docs/articles/ggcoefstats.html b/docs/articles/ggcoefstats.html
@@ -119,7 +119,7 @@
       <h1>ggcoefstats</h1>
                         <h4 class="author">Indrajeet Patil</h4>
             
-            <h4 class="date">2018-09-20</h4>
+            <h4 class="date">2018-09-23</h4>
       
       <small class="dont-index">Source: <a href="https://github.com/IndrajeetPatil/ggstatsplot/blob/master/vignettes/ggcoefstats.Rmd"><code>vignettes/ggcoefstats.Rmd</code></a></small>
       <div class="hidden name"><code>ggcoefstats.Rmd</code></div>

diff --git a/docs/articles/plot_design.html b/docs/articles/plot_design.html
@@ -119,7 +119,7 @@
       <h1>plot design</h1>
                         <h4 class="author">Indrajeet Patil</h4>
             
-            <h4 class="date">2018-09-20</h4>
+            <h4 class="date">2018-09-23</h4>
       
       <small class="dont-index">Source: <a href="https://github.com/IndrajeetPatil/ggstatsplot/blob/master/vignettes/plot_design.Rmd"><code>vignettes/plot_design.Rmd</code></a></small>
       <div class="hidden name"><code>plot_design.Rmd</code></div>

diff --git a/docs/articles/ggpiestats.html b/docs/articles/ggpiestats.html
@@ -119,7 +119,7 @@
       <h1>ggpiestats</h1>
                         <h4 class="author">Indrajeet Patil</h4>
             
-            <h4 class="date">2018-09-20</h4>
+            <h4 class="date">2018-09-23</h4>
       
       <small class="dont-index">Source: <a href="https://github.com/IndrajeetPatil/ggstatsplot/blob/master/vignettes/ggpiestats.Rmd"><code>vignettes/ggpiestats.Rmd</code></a></small>
       <div class="hidden name"><code>ggpiestats.Rmd</code></div>

diff --git a/docs/articles/ggcorrmat.html b/docs/articles/ggcorrmat.html
@@ -119,7 +119,7 @@
       <h1>ggcorrmat</h1>
                         <h4 class="author">Indrajeet Patil</h4>
             
-            <h4 class="date">2018-09-20</h4>
+            <h4 class="date">2018-09-23</h4>
       
       <small class="dont-index">Source: <a href="https://github.com/IndrajeetPatil/ggstatsplot/blob/master/vignettes/ggcorrmat.Rmd"><code>vignettes/ggcorrmat.Rmd</code></a></small>
       <div class="hidden name"><code>ggcorrmat.Rmd</code></div>
